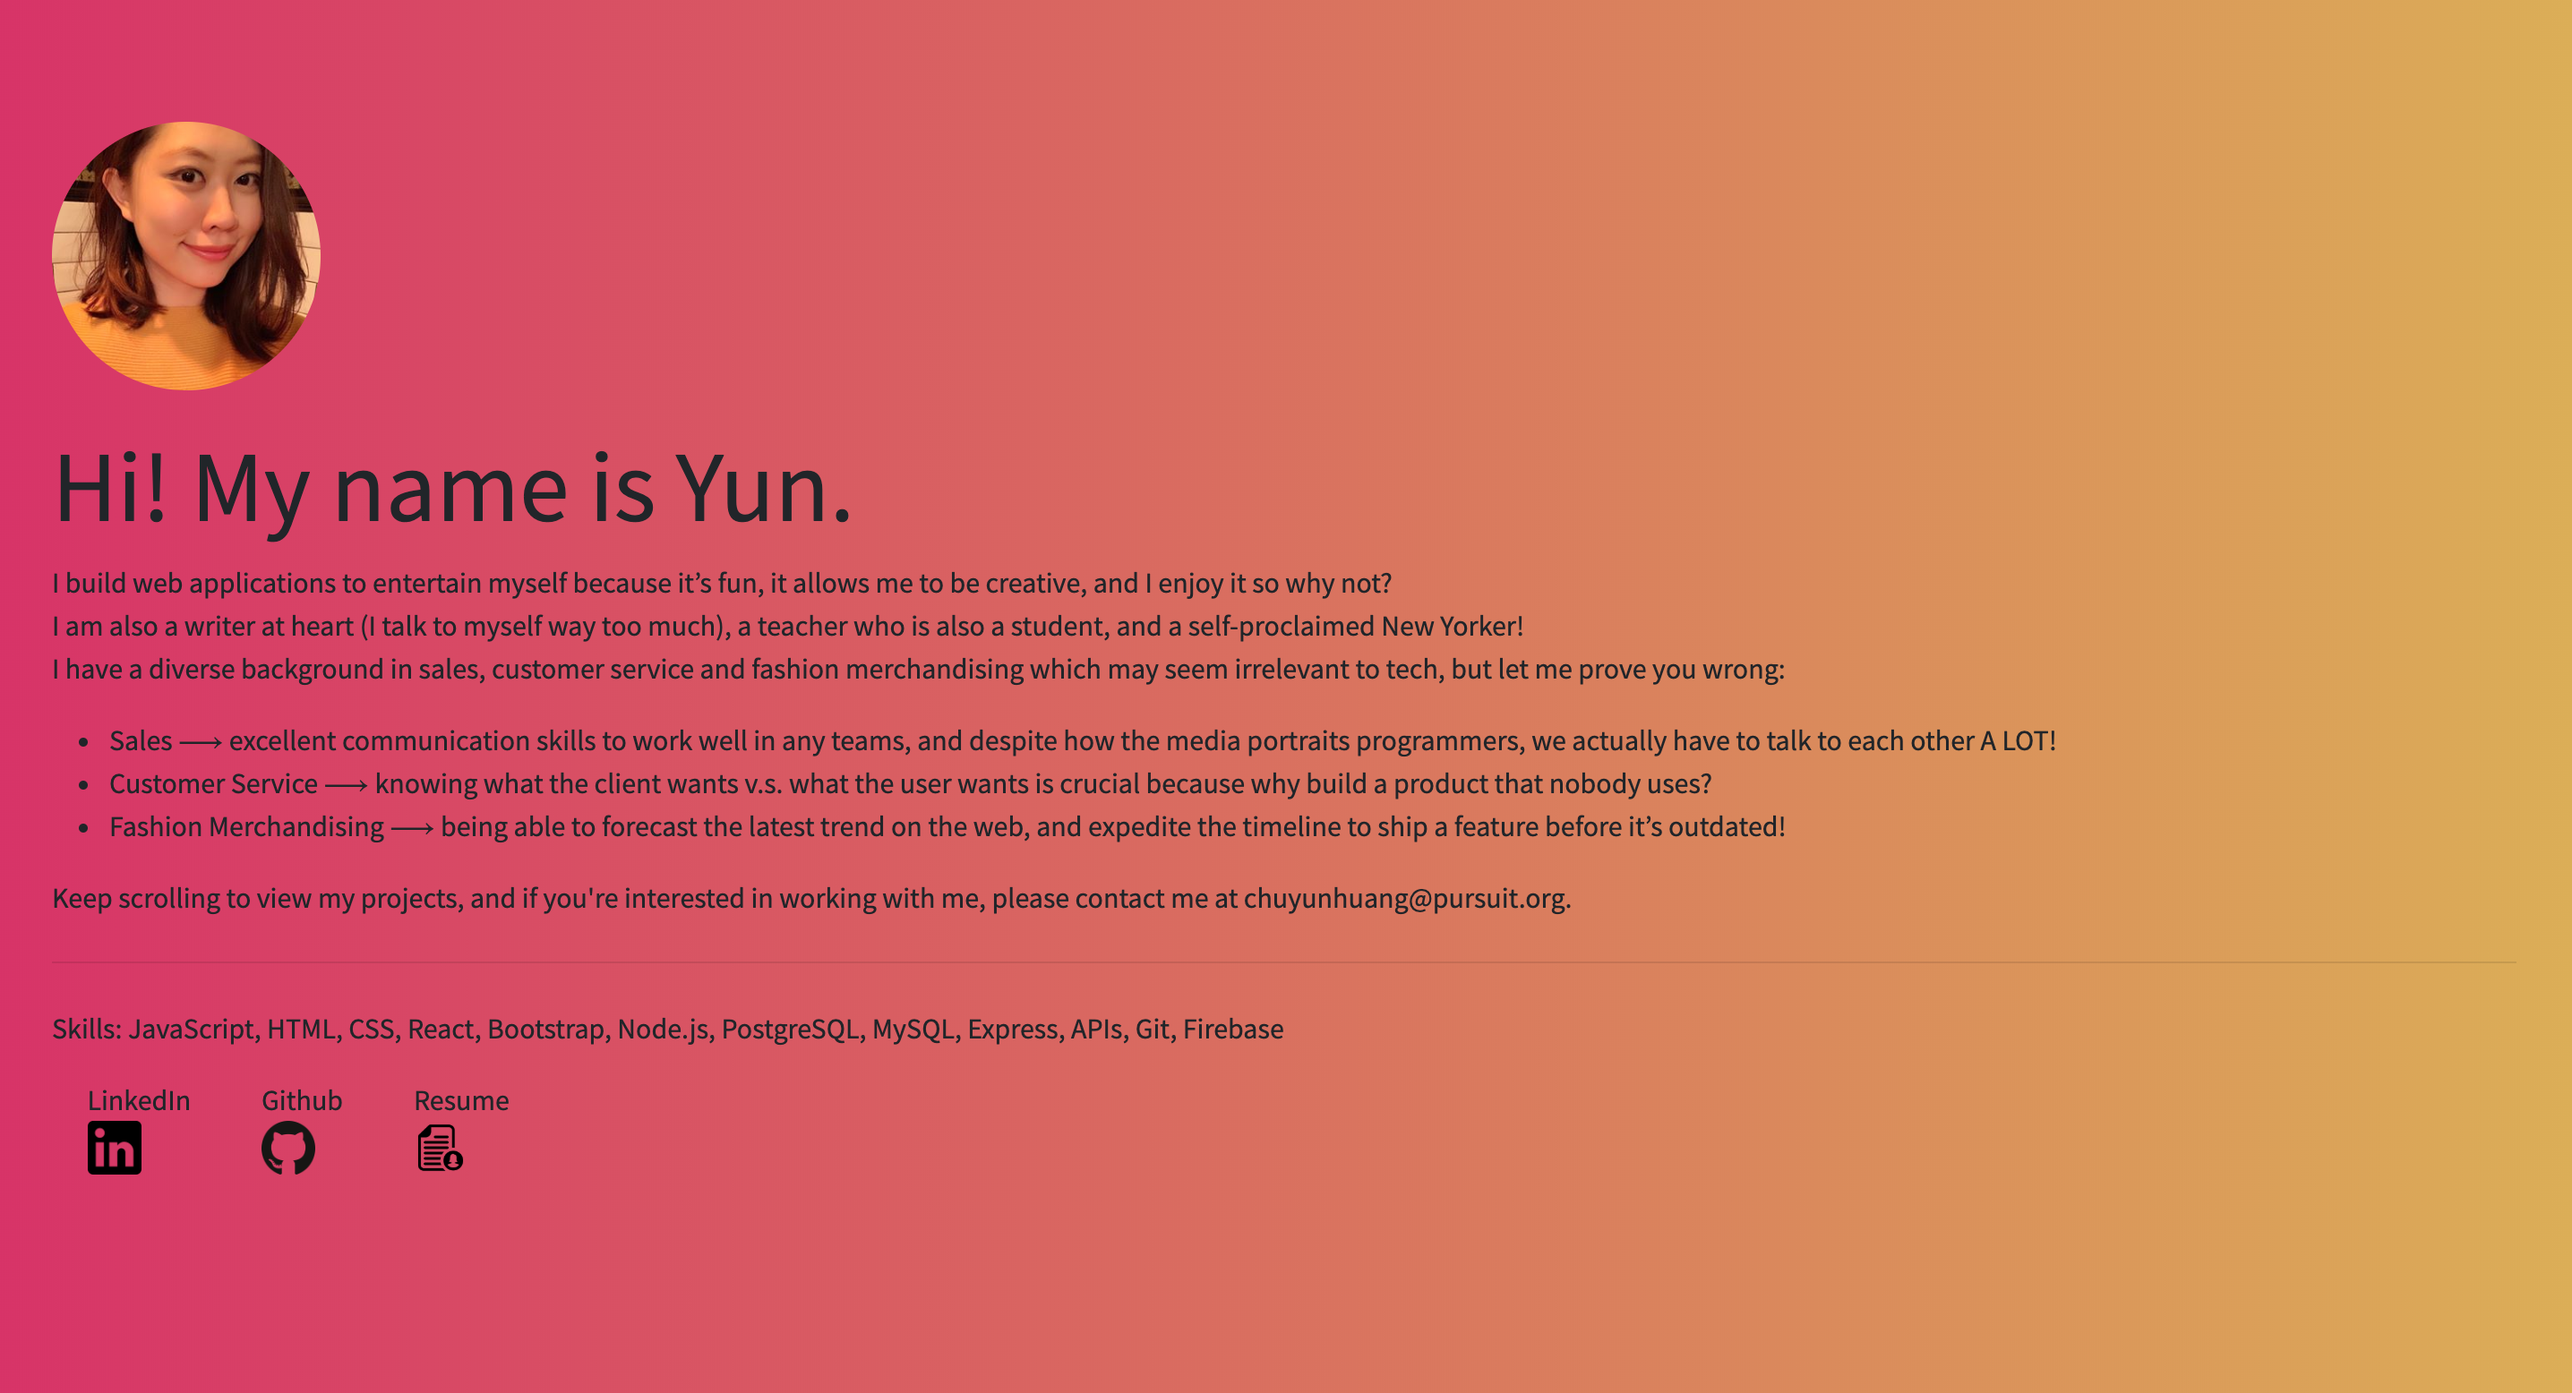
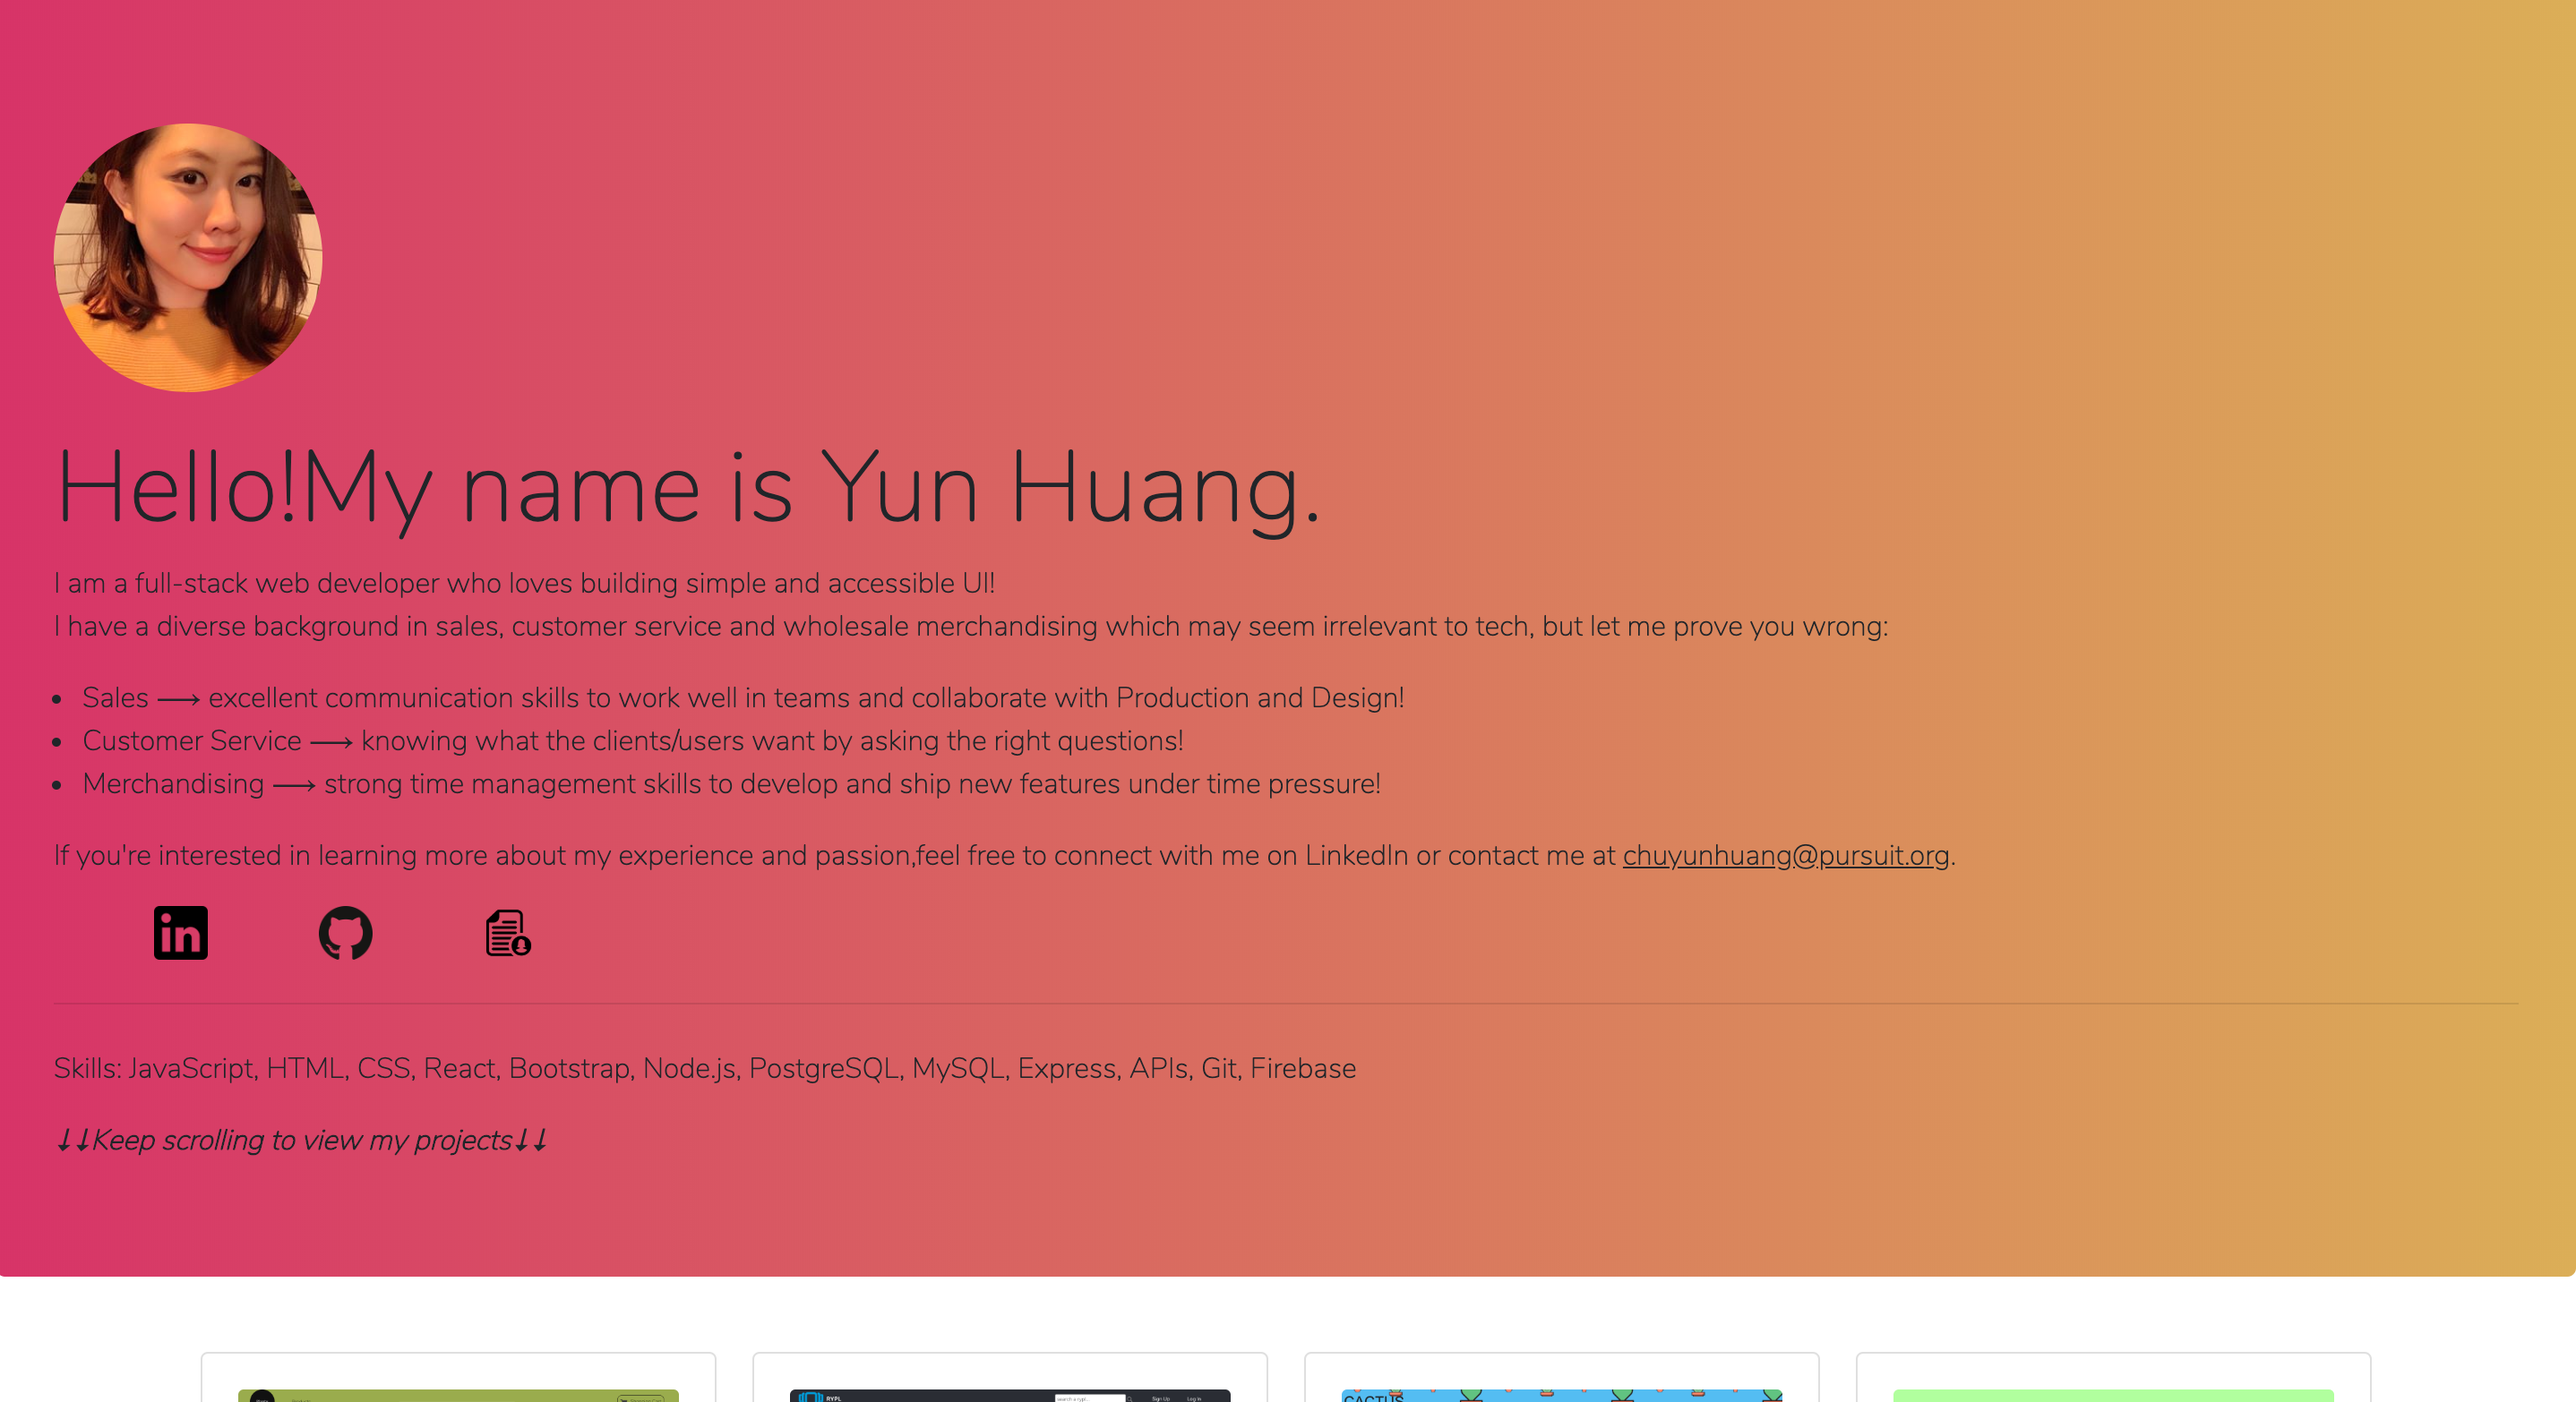
fixed minor content and styling issues

diff --git a/index.html b/index.html
@@ -7,7 +7,7 @@
   <meta http-equiv="X-UA-Compatible" content="ie=edge">
   <link rel="stylesheet" href="https://stackpath.bootstrapcdn.com/bootstrap/4.3.1/css/bootstrap.min.css"
     integrity="sha384-ggOyR0iXCbMQv3Xipma34MD+dH/1fQ784/j6cY/iJTQUOhcWr7x9JvoRxT2MZw1T" crossorigin="anonymous">
-  <link href="https://fonts.googleapis.com/css?family=Source+Sans+Pro&display=swap" rel="stylesheet">
+  <link href="https://fonts.googleapis.com/css?family=Nunito:200&display=swap" rel="stylesheet">
   <link rel="stylesheet" href="style.css">
   <title>Yun Huang</title>
 </head>
@@ -16,50 +16,50 @@
   <div class="jumbotron">
     <img src="images/profile.jpg" alt="profile" class="profile-img">
     <h3 class="display-4">
-      Hi!My name is Yun.
+      Hello!My name is Yun Huang.
     </h3>
     <p class="lead">
-      I am a frontend developer and I build web applications to entertain myself because it’s fun and it allows me to be
-      creative!<br>
-      I am also a writer at heart (I talk to myself way too much), a teacher who is also a student, and a
-      self-claimed New Yorker! <br>
-      I have a diverse background in sales, customer service and fashion merchandising which may seem irrelevant to
+      I am a full-stack web developer who loves building simple and accessible UI!<br>
+      I have a diverse background in sales, customer service and wholesale merchandising which may seem irrelevant to
       tech, but let me prove you wrong:
       <ul class="extra-padding">
-        <li>Sales ⟶ excellent communication skills to work well in any teams, and as
-          programmers, we actually have to talk to each other A LOT!</li>
-        <li>Customer Service ⟶ knowing what the client wants v.s. what the user wants is crucial because why build a
-          product that nobody uses?</li>
-        <li>Fashion Merchandising ⟶ being able to forecast the latest trend on the web, and expedite the
-          timeline to ship a feature before it’s outdated!</li>
+        <li>
+          Sales ⟶ excellent communication skills to work well in teams and collaborate with Production and Design!
+        </li>
+        <li>
+          Customer Service ⟶ knowing what the clients/users want by asking the right questions!
+        </li>
+        <li>
+          Merchandising ⟶ strong time management skills to develop and ship new features under time pressure!
+        </li>
       </ul>
-      If you're interested in working with me, feel free to connect with me on
-      LinkedIn, follow me on Github or contact me at
-      chuyunhuang@pursuit.org.
+      If you're interested in learning more about my experience and passion,feel free to connect with me on
+      LinkedIn or contact me at <u>chuyunhuang@pursuit.org</u>.
     </p>
     <div class="external-links">
       <span>
-        <div>LinkedIn</div>
+        <!-- <div>LinkedIn</div> -->
         <a href="https://www.linkedin.com/in/chuyun-huang/" target="_blank">
           <img src="./images/icons/linkedin.png" alt="linkedin-icon" class="icon" />
         </a>
       </span>
       <span>
-        <div>Github</div>
+        <!-- <div>Github</div> -->
         <a href="https://github.com/chuyunhuang" target="_blank">
           <img src="./images//icons/github.png" alt="github-icon" class="icon" />
         </a>
       </span>
       <span>
-        <div>Resume</div>
+        <!-- <div>Resume</div> -->
         <a href="https://drive.google.com/file/d/1o1hbxMLXwutQZj0sNZ_djwxgsjOkl1xE/view?usp=sharing" target="_blank">
           <img src="./images/icons/cv.png" alt="cv-icon" class="icon" />
         </a>
       </span>
     </div>
     <hr class="my-4">
-    <p>Skills: JavaScript, HTML, CSS, React, Bootstrap, Node.js, PostgreSQL, MySQL, Express, APIs, Git, Firebase </p>
-    <div class="animation"><em>↓↓Keep scrolling to view my projects↓↓</em></div>
+    <p>Tech Stack: JavaScript, HTML, CSS, React, Bootstrap, Node.js, PostgreSQL, MySQL, Express, APIs, Git, Firebase
+    </p>
+
 
 
   </div>
@@ -70,7 +70,7 @@
     <div class="card" style="width: 18rem;">
       <div class="card-body">
         <img src="./images/plantyModal.png" class="card-img-top" alt="...">
-        <h5 class="card-title">PLANTY</h5>
+        <h5 class="card-title">Planty</h5>
         <h6 class="card-subtitle mb-2 text-muted">React | JS | Responsive Design</h6>
         <p class="card-text">An e-Commerce site for my ideal plant shop</p>
         <a href="https://quirky-aryabhata-761e17.netlify.com/" target="_blank" class="card-link">Live</a>

diff --git a/style.css b/style.css
@@ -2,7 +2,7 @@
   margin:0;
   padding: 0;
   box-sizing: border-box;
-  font-family: 'Source Sans Pro', sans-serif;
+  font-family: 'Nunito', sans-serif;
 }
 
 
@@ -20,7 +20,7 @@
 }
 
 .extra-padding{
-  padding-left: 2rem;
+  padding-left: 1rem;
 }
 
 .profile-img{
@@ -49,6 +49,11 @@
 .card{
   justify-content:space-around;
   margin:10px;
+}
+
+.card:hover{
+  border: 1px solid black;
+  box-shadow: 5px 10px 18px #888888;
 }
 
 .external-links{
